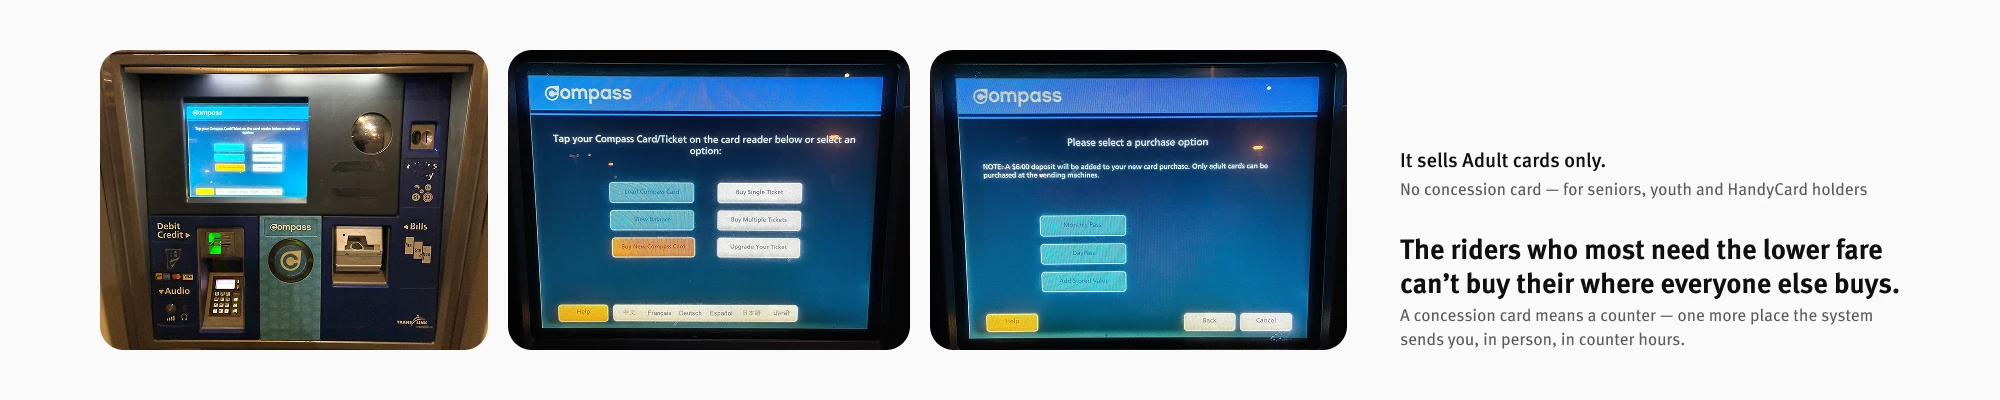
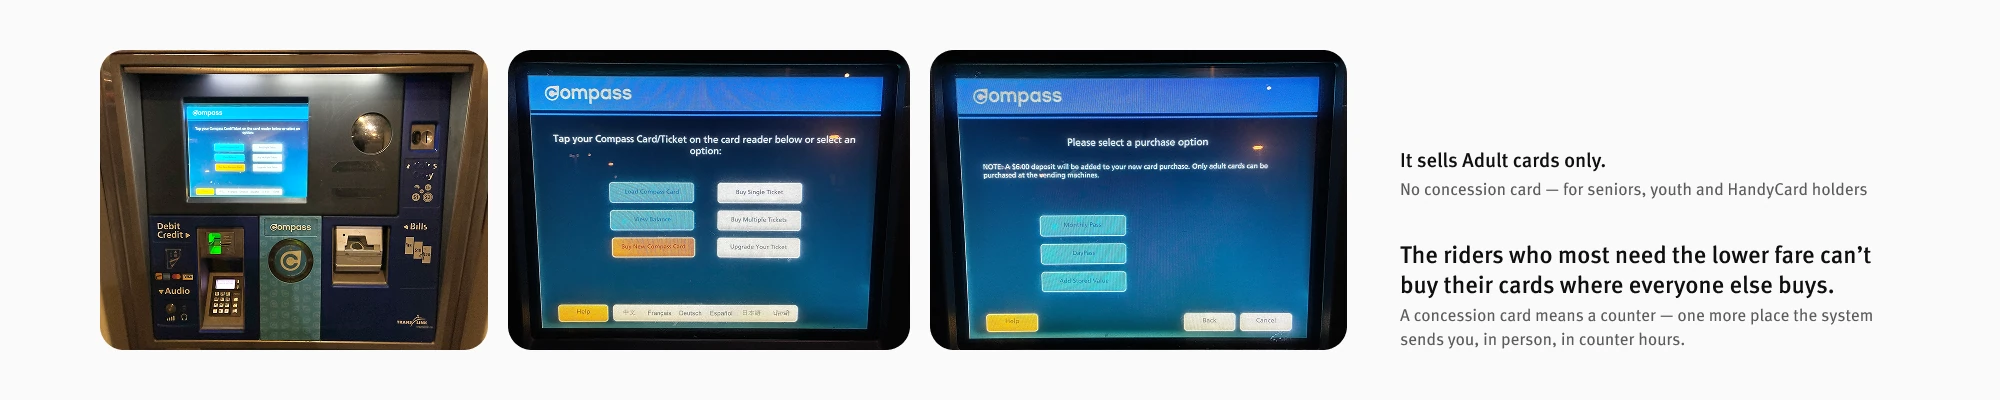
content: land the ch04 coverage and roadmap diagram, fix the vending machine caption typo

Changed region(s): [[0.682, 0.6, 0.961, 0.66], [0.682, 0.69, 0.961, 0.75]]

diff --git a/site/src/components/CompassFigures.jsx b/site/src/components/CompassFigures.jsx
@@ -4,6 +4,7 @@ import websiteImg from "../assets/compass/compass-fig-website.webp";
 import cvmImg from "../assets/compass/compass-fig-cvm.webp";
 import balancePathsImg from "../assets/compass/compass-fig-balance-paths.webp";
 import systemImg from "../assets/compass/compass-fig-system.webp";
+import coverageRoadmapImg from "../assets/compass/compass-fig-coverage-roadmap.webp";
 
 /* Finished artwork for the Compass Card case study, optimized from the
    originals the owner supplied. Each key here replaces the labelled box of
@@ -43,5 +44,10 @@ export const COMPASS_ARTWORK = {
   "compass-fig-system": art(
     systemImg,
     "Where the balance lives, side by side. Card-based today: the balance sits on the Compass Card, which reaches a reader on a bus or at a gate, and only later a server — the card is the record, a tap works offline, nothing changes until the card meets a reader, so an online reload takes up to two hours to land and an app has nothing real to show, which is why there isn't one. Account-based, what the RFP buys: the balance lives in an account on the server, with the card, a phone app and wallet, and a watch all reading from it — the account is the record, every device shows the real number, a reload lands where the balance lives with no two-hour wait, and an app stops being a copy",
+  ),
+  /* 04 Scope & Bets */
+  "compass-fig-coverage-roadmap": art(
+    coverageRoadmapImg,
+    "Three phases, ordered by how much permission each needs. Phase 1, TransLink — bus, SkyTrain, SeaBus and West Coast Express, every mode from day one; permission needed: none, because TransLink sets its own fares, a one-zone trip being $2.85 on stored value. Phase 2, BC Ferries — foot passengers only, a $19.10 adult walk-on, the same gesture at nothing like the same amount; permission needed: a partner, though the two already share retail, with vending machines at Tsawwassen and Horseshoe Bay, pre-loaded Compass Cards sold onboard, and TransLink routes named as connections. Phase 3, BC Transit's Umo network in Victoria, Kelowna and Whistler — a separate system and a separate fare authority; permission needed: the most, a new agreement across systems, so it waits: roadmap only, with nothing in v1 designed for it. v1 designs the first two. Out on purpose: BC Ferries vehicle fares, which carry a reservation, a vehicle class and deck capacity — a booking, not a tap — and the plastic card, which is not replaced; this design adds, it does not remove",
   ),
 };

diff --git a/site/src/components/CompassPlaceholders.jsx b/site/src/components/CompassPlaceholders.jsx
@@ -60,13 +60,12 @@ const fig = (label, note, ar) => {
   return C;
 };
 
-/* ── figure blocks — 16 still to draw. Chapters 01 to 03 are fully drawn now
-   (timeline; card, website, vending machine and five-paths; system), and
-   those keys are registered from CompassFigures.jsx instead. ── */
+/* ── figure blocks — 15 still to draw. Chapters 01 to 03 are fully drawn,
+   and ch04's coverage-and-roadmap diagram has landed too; those keys are
+   registered from CompassFigures.jsx instead. ── */
 export const COMPASS_FIGURES = {
   /* 04 Scope & Bets */
   "compass-fig-ia": fig("04 · IA — the two layers", "what you tap / what you manage", 16 / 8),
-  "compass-fig-coverage-roadmap": fig("04 · Coverage + roadmap", "in / out / three phases, ordered by permission", 16 / 7),
   "compass-fig-wireframes": fig("04 · Lo-fi wireframe board", "6–10 frames, one board only", 16 / 9),
   /* 05 One Tap, Every Ride */
   "compass-fig-tap-moment": fig("05 · THE TAP MOMENT", "first hi-fi screen of the case study", 16 / 10),
